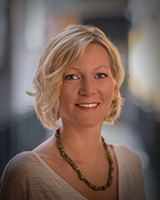
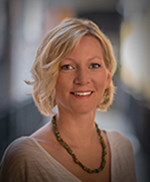
Fixing images, starting to work on assignments

diff --git a/_assignments/assignment1/index.md b/_assignments/assignment1/index.md
@@ -2,13 +2,13 @@
 layout: base/bar-sidebar-none
 title: "Assignment 1: Project Proposal"
 
-link_project_1a: https://canvas.uw.edu/courses/987987/assignments/3000656
-date_project_1a: Friday, October 2, 2015
-link_project_1b: https://canvas.uw.edu/courses/987987/assignments/3000658
-date_project_1b: Tuesday, October 6, 2015
-link_project_1c_projects: https://canvas.uw.edu/courses/987987/discussion_topics/3047301
-link_project_1c_bids: https://canvas.uw.edu/courses/987987/quizzes/860487
-date_project_1c_bids: Thursday, October 8, 2015
+link_project_1a: 
+date_project_1a: Friday, April 1, 2016
+link_project_1b: 
+date_project_1b: Tuesday, April 5, 2016
+link_project_1c_projects: 
+link_project_1c_bids: 
+date_project_1c_bids: Thursday, April 7, 2016
 ---
 
 # Overview
@@ -40,7 +40,7 @@ This is an individual assignment, consisting of three milestones.
 
 # Project Description
 
-The theme for projects in this course is __personal informatics__:
+The theme for projects in this course is __community support and engagement__:
 
 > Personal informatics systems are systems that help people collect personally relevant information for the purpose of 
 > self-reflection and gaining self-knowledge.

diff --git a/index.md b/index.md
@@ -102,11 +102,11 @@ __Course Staff__:
     </div>
     <div class="col-md-2">
       <p>Alex Fiannaca</p>
-      <p><img src="{{ site.baseurl }}/images/alex_photo.png" width="150" alt="Alex Fiannaca"/></p>
+      <p><img src="{{ site.baseurl }}/images/alex_photo.jpg" width="150" alt="Alex Fiannaca"/></p>
     </div>
     <div class="col-md-2">
       <p>Saba Kawas</p>
-      <p><img src="{{ site.baseurl }}/images/saba_photo.png" width="150" alt="Saba Kawas"/></p>
+      <p><img src="{{ site.baseurl }}/images/saba_photo.jpg" width="150" alt="Saba Kawas"/></p>
     </div>
     <div class="col-md-2">
       <p>Kelsey Munsell</p>

diff --git a/_assignments/assignment0/index.md b/_assignments/assignment0/index.md
@@ -2,8 +2,8 @@
 layout: base/bar-sidebar-none
 title: "Assignment 0: Introduction Slide"
 
-link_assignment_0: https://canvas.uw.edu/courses/987987/assignments/3000074
-date_assignment_0: Thursday, October 8, 2015
+link_assignment_0: 
+date_assignment_0: Thursday, April 7, 2016
 ---
 
 # Overview
